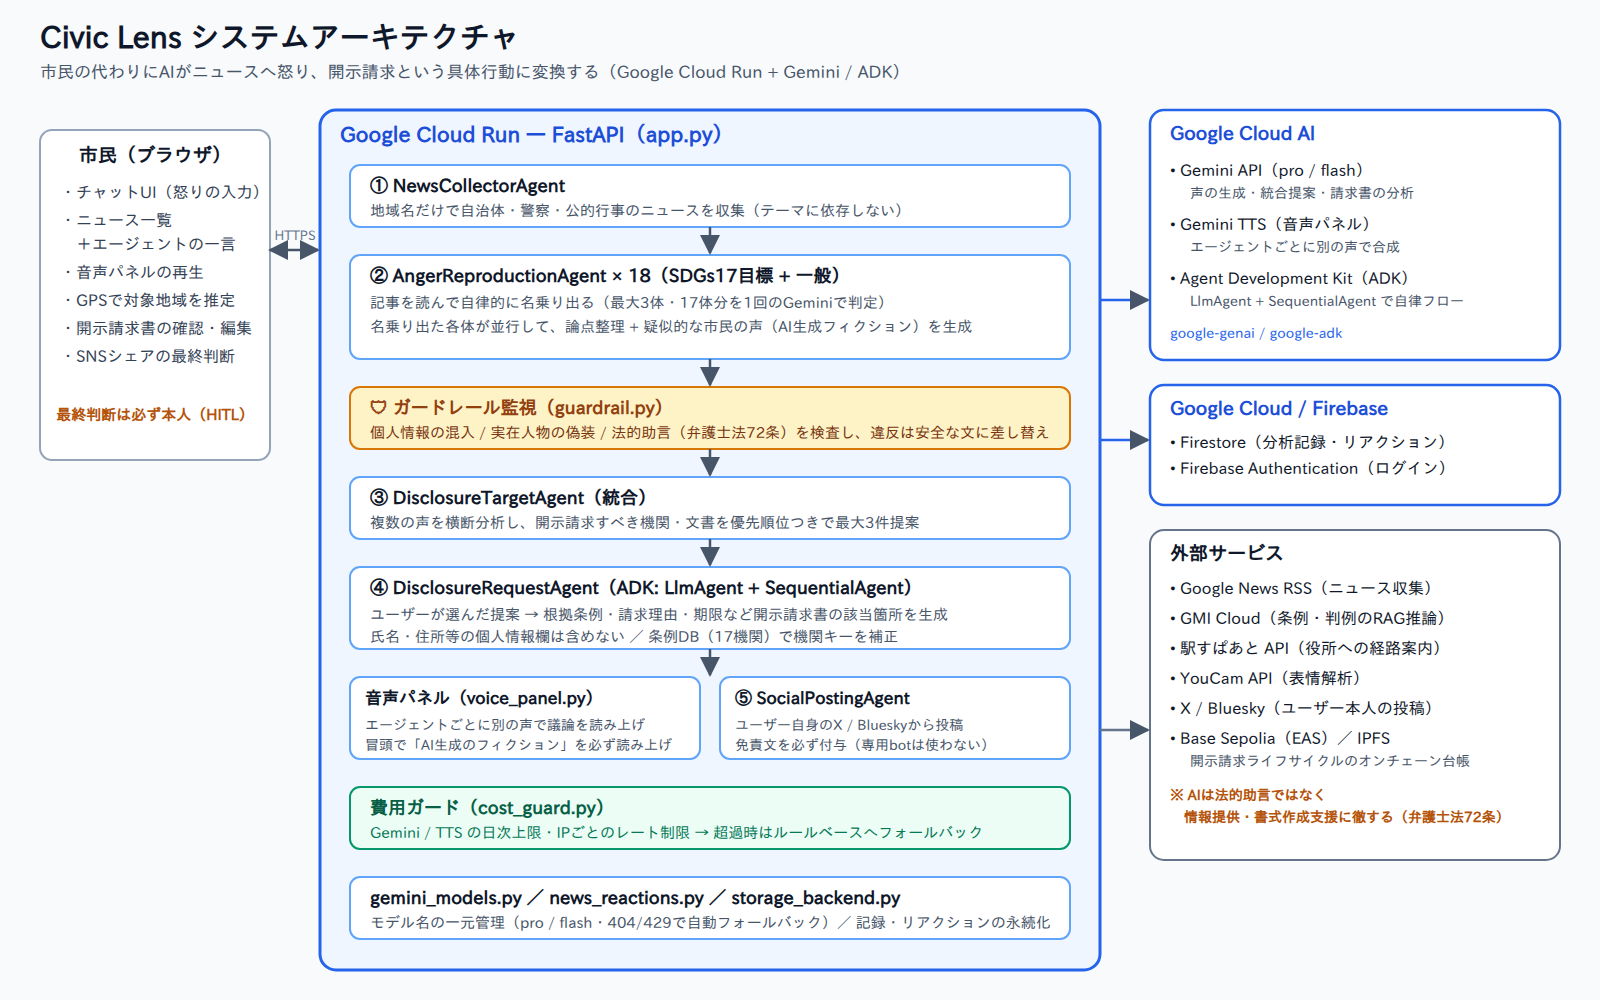
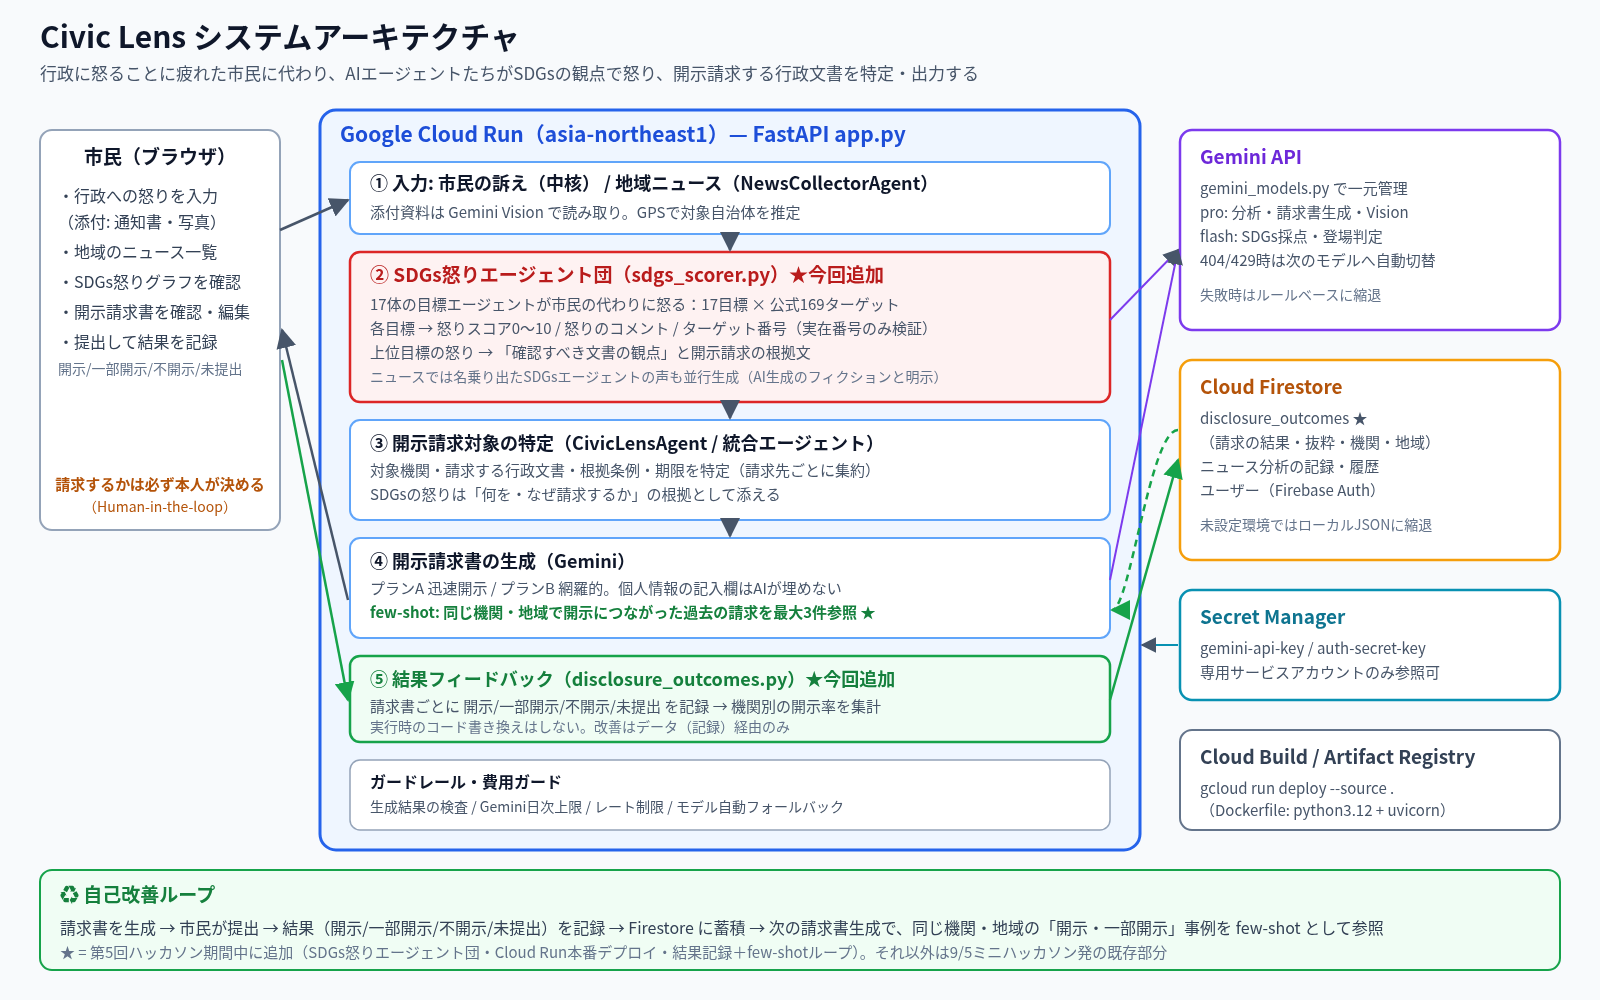
docs: 提出用アーキテクチャ図（SDGs怒りエージェント団・自己改善ループ）・Zenn提出文・デモ台本と録画スクリプト

diff --git a/demo/record_sdgs_demo.py b/demo/record_sdgs_demo.py
@@ -1,0 +1,48 @@
+"""提出用デモ録画（市民の訴え → SDGs怒りエージェント団 → 開示請求書 → 結果記録）
+
+使い方: python demo/record_sdgs_demo.py --url https://civic-lens-259303826380.asia-northeast1.run.app
+出力: demo/out/video-sdgs/*.webm（無音。ナレーションは demo/narration_sdgs.md）
+結果ボタンは本番データを汚さないよう「未提出」を押す。
+"""
+import argparse
+from pathlib import Path
+from playwright.sync_api import sync_playwright
+
+GRIEVANCE = ("市が駅前の公園の樹木を大量に伐採して再開発を進めている。業者は随意契約で決まったらしく、"
+             "住民説明会も開かれていない。税金がいくら使われているのかも分からない。")
+
+ap = argparse.ArgumentParser()
+ap.add_argument("--url", default="http://localhost:8080")
+ap.add_argument("--headed", action="store_true")
+args = ap.parse_args()
+out = Path(__file__).parent / "out" / "video-sdgs"
+out.mkdir(parents=True, exist_ok=True)
+
+with sync_playwright() as p:
+    b = p.chromium.launch(headless=not args.headed)
+    ctx = b.new_context(viewport={"width": 1440, "height": 900}, record_video_dir=str(out),
+                        record_video_size={"width": 1440, "height": 900}, locale="ja-JP")
+    pg = ctx.new_page()
+    pg.goto(args.url, wait_until="networkidle")
+    pg.wait_for_timeout(4000)
+    box = pg.locator("#userInput")
+    box.click()
+    box.type(GRIEVANCE, delay=35)
+    pg.wait_for_timeout(1000)
+    pg.locator("#analyzeBtn").click()
+    pg.wait_for_selector(".sdgs-anger-panel", timeout=150000)
+    pg.wait_for_timeout(1500)
+    panel = pg.locator(".sdgs-anger-panel")
+    panel.scroll_into_view_if_needed()
+    pg.wait_for_timeout(9000)
+    pg.mouse.wheel(0, 500); pg.wait_for_timeout(6000)
+    pg.locator("#documentsList").scroll_into_view_if_needed(); pg.wait_for_timeout(6000)
+    pg.locator(".chat-suggestion-btn", has_text="プランA").last.click()
+    pg.wait_for_selector(".outcome-panel", timeout=180000)
+    pg.locator("#outputSection").scroll_into_view_if_needed(); pg.wait_for_timeout(8000)
+    pg.locator(".outcome-panel").scroll_into_view_if_needed(); pg.wait_for_timeout(3000)
+    pg.locator('.outcome-panel button[data-outcome="not_submitted"]').click()
+    pg.wait_for_timeout(6000)
+    pg.screenshot(path=str(out / "final.png"))
+    ctx.close(); b.close()
+print("saved to", out)

diff --git a/docs/10-zenn-submission.md b/docs/10-zenn-submission.md
@@ -1,0 +1,60 @@
+# Zenn 提出フォーム用テキスト — Civic Lens
+
+- デプロイURL（Cloud Run）: https://civic-lens-259303826380.asia-northeast1.run.app
+- GitHub: https://github.com/t-sakaki/civic-lens（デフォルトブランチ main）
+- アーキテクチャ図: docs/architecture.png
+- 使用技術: Cloud Run / Gemini API（gemini_models.py でモデル自動フォールバック）/ Cloud Firestore / Firebase Authentication / Secret Manager / Cloud Build
+- 任意技術の申告: Firebase（Authentication・Firestore）
+- 動作確認の方法: ログイン不要。トップページで「行政への怒り」を入力して送信 → SDGs怒りグラフと開示請求案を確認 → 「開示請求書を作成」→ 結果ボタンで記録。ニュース機能はニュース一覧から記事を選択。
+
+---
+
+## プロジェクト名
+Civic Lens — 怒ることに疲れた市民に代わって、AIエージェントたちがSDGsの観点で行政に怒り、開示請求する行政文書を特定する
+
+## 一言で
+行政に怒ることに疲れた市民に代わり、17体のSDGs目標エージェントが「17目標・169ターゲット」を物差しに怒り、その怒りを「どの機関の、どの行政文書を、なぜ開示請求するか」という具体的な出力に変換するAIエージェントです。
+
+## 対象ユーザー
+- 行政のニュースや身近な出来事に違和感・怒りを覚えながらも、「声を上げても変わらない」と諦め、無関心を装うようになった市民
+- 情報公開制度を使いたいが「何を請求すればいいかわからない」「弁護士に頼む費用はない」市民
+- 地域の行政を監視したい記者・市民団体・議員スタッフ（請求対象の当たりを素早く付けたい人）
+
+## 課題
+- 日本には公的なオンブズマン（行政監視官）制度がなく、行政監視は市民個人の気力に依存している。
+- 情報公開請求は年間30万件以上使われる制度だが、一般の市民は「請求する文書を特定する」段階で挫折する。行政文書の名称（決裁文書・支出負担行為決議書・仕様書・議事録など）を知らなければ、請求は「対象が特定できない」と補正・不開示になりやすい。
+- 怒りは主観的で、「なぜその文書を見る必要があるのか」という請求の理由に変換しにくい。
+- 結果として、怒りは表明されずに消え、行政の不透明さが温存される（学習性無力感）。
+
+## ソリューション
+1. 市民が行政への怒りを自由に書く（通知書や写真の添付も可。Gemini Visionで読み取り）。地域のニュースを起点にすることもできる。
+2. **SDGs怒りエージェント団**：17体の目標エージェントが、市民の代わりにSDGsの17目標・公式169ターゲットに照らして怒る。各目標が「怒りスコア0〜10・怒りのコメント・関係するターゲット番号・確かめるべき文書の観点」を出す。ターゲット番号は実在する169件と照合して検証する。
+3. 怒りの強い目標を根拠に、**開示請求すべき対象機関・行政文書・根拠条例・期限**を特定して出力する（Civic Lensの中核の出力）。
+4. 開示請求書（Markdownドラフト）を生成する。迅速開示重視／網羅的の2方針から本人が選ぶ。
+5. **自己改善ループ**：生成した請求書ごとに、市民が実際の結果（開示／一部開示／不開示／未提出）を記録する。Firestoreに蓄積された「開示につながった請求」を、次に同じ機関・地域で請求書を作るときにfew-shot例としてGeminiに渡し、文書の特定精度を上げていく。
+
+## 特徴
+- **怒りの代理人というコンセプト**：AIが市民の代わりに怒る。生成される「怒りのコメント」や「市民の声」は実在の個人の発言ではなくAI生成のフィクションであることを常に明示する。
+- **SDGsという共通の物差し**：主観的な怒りを、17目標×169ターゲットという国際的な枠組みで構造化し、「なぜその文書を請求するのか」の根拠文にする。
+- **出力は具体的な行政文書**：感想や要約で終わらず、請求先機関・請求文書名・根拠条例・決定期限まで落とし込む。
+- **自律性と統制の両立**：エージェントは記事・訴えを読んで自律的に怒り・提案するが、請求・投稿するかの最終判断は必ず本人（Human-in-the-loop）。生成結果のガードレール検査、Geminiの日次呼び出し上限、レート制限、モデル障害時の自動フォールバックとルールベース縮退を備える。
+- **データで賢くなる（コードは書き換えない）**：改善は記録された結果データを通じてのみ行い、実行時の自己書き換えはしない。機関別の開示率で効果を観測できる。
+- **Google Cloudで本番運用**：Cloud Run（asia-northeast1）上のFastAPI、Gemini API、Cloud Firestore、Secret Manager（APIキー・署名鍵）、Cloud Buildによる `gcloud run deploy --source` デプロイ。
+- 弁護士法72条に配慮し、法的助言ではなく情報提供・書式作成支援に限定。
+
+## 本ハッカソン期間中に開発した部分／既存部分
+**既存（2026年9月5日「Zenn Agentic AI ミニハッカソン with Google Cloud」渋谷で誕生・優勝した作品。ミニハッカソンの成果をもって本戦へ進む形での提出）**
+- 市民の訴え → 怒り分析 → 開示請求対象（機関・文書・根拠条例）の特定 → 開示請求書・審査請求書の生成（中核機能）
+- ニュース収集と、名乗り出たエージェントによる擬似的な市民の声、統合エージェントによる請求対象の提案
+- Firebase Auth / Firestore 連携、ガードレール、費用ガード、Geminiモデルのフォールバック
+
+**本戦提出に向けて追加（〜10/15）**
+- **SDGs怒りエージェント団**（sdgs_scorer.py）：17目標×公式169ターゲットでの怒りスコアリング（0〜10・コメント・ターゲット番号・文書の観点）を、市民の訴え・ニュースの両方に適用。17目標の棒グラフUIと「この怒りを開示請求の根拠に」表示。API `/api/sdgs`
+- **Google Cloud Run への本番デプロイ**（Secret Manager・専用サービスアカウント・Firestore接続、.gcloudignore）
+- **結果記録＋few-shot の自己改善ループ**（disclosure_outcomes.py）：請求書ごとの結果ボタン（開示／一部開示／不開示／未提出）、Firestore `disclosure_outcomes` への保存、機関別開示率、同じ機関・地域の成功事例を請求書生成プロンプトへ自動注入
+- 上記のテスト（tests/test_sdgs_scorer.py, tests/test_disclosure_outcomes.py）
+
+## 今後の展望
+- 開示決定通知書の添付から結果を自動判定し、記録の手間をなくす
+- 機関・SDGs目標別の「開示されやすい文書の書き方」ダッシュボード
+- 不開示時の審査請求への自動接続（既存機能と結果記録の連携）

diff --git a/demo/narration_sdgs.md b/demo/narration_sdgs.md
@@ -1,0 +1,22 @@
+# デモ動画ナレーション台本（約2分40秒）— civic-lens-demo-silent.mp4 に合わせた時刻
+
+| 時刻 | 画面 | ナレーション |
+|---|---|---|
+| 0:00–0:25 | アーキテクチャ図 | 日本には公的なオンブズマン制度がありません。行政に怒ることに疲れた市民に代わって、AIエージェントたちが怒り、その怒りを「どの行政文書を開示請求するか」に変える。それがCivic Lensです。Cloud Run上のFastAPIからGeminiを呼び、結果はFirestoreに、APIキーはSecret Managerに置いています。 |
+| 0:25–0:45 | Cloud Runのトップ画面→訴えを入力 | 市民は、モヤモヤをそのまま書くだけです。今回は「駅前の公園の樹木が伐採され、業者は随意契約、説明会もない」という訴えです。 |
+| 0:45–1:15 | SDGs怒りエージェント団のグラフ | 17体のSDGs目標エージェントが、17目標と国連の公式169ターゲットに照らして、市民の代わりに怒ります。目標11「住み続けられるまちづくり」は9点、ターゲット11.3と11.7。目標16の公正・透明性も高く怒っています。ターゲット番号は実在する169件と照合して検証しています。 |
+| 1:15–1:35 | 怒りレベル・対象機関・請求する行政文書 | 怒りの強い目標が、請求の根拠になります。Civic Lensの中核の出力は、対象機関、請求すべき行政文書、根拠条例、決定期限です。 |
+| 1:35–2:00 | プランAで開示請求書を生成 | 方針を選ぶと、提出できる開示請求書のドラフトができます。過去に同じ機関や地域で開示につながった請求があれば、それをお手本としてGeminiに渡します。 |
+| 2:00–2:14 | 結果ボタン（開示／一部開示／不開示／未提出） | 提出後は結果をワンタップで記録します。記録はFirestoreに蓄積され、機関ごとの開示率が見えます。 |
+| 2:14–2:39 | アーキテクチャ図（自己改善ループ） | 生成、提出、結果の記録、次の請求へのfew-shot。コードを書き換えるのではなく、データで賢くなる自己改善ループです。請求するかどうかは必ず本人が決めます。生成される怒りの声はAIのフィクションです。Civic Lens——怒りを、開示請求という行動に。 |
+
+撮影メモ（ショットリスト）
+1. architecture.png（静止）
+2. Cloud Run URL を開く → #userInput に訴えをタイピング → 送信
+3. SDGs怒りパネルを表示・スクロール（目標11・16にフォーカス）
+4. 対象機関・請求文書リスト
+5. チャットの「プランA」→ 開示請求書
+6. 結果パネル →「未提出」を押す（本番データを汚さないため）
+7. architecture.png（自己改善ループの帯にフォーカス）
+
+録り直し: `python demo/record_sdgs_demo.py --url https://civic-lens-259303826380.asia-northeast1.run.app`
